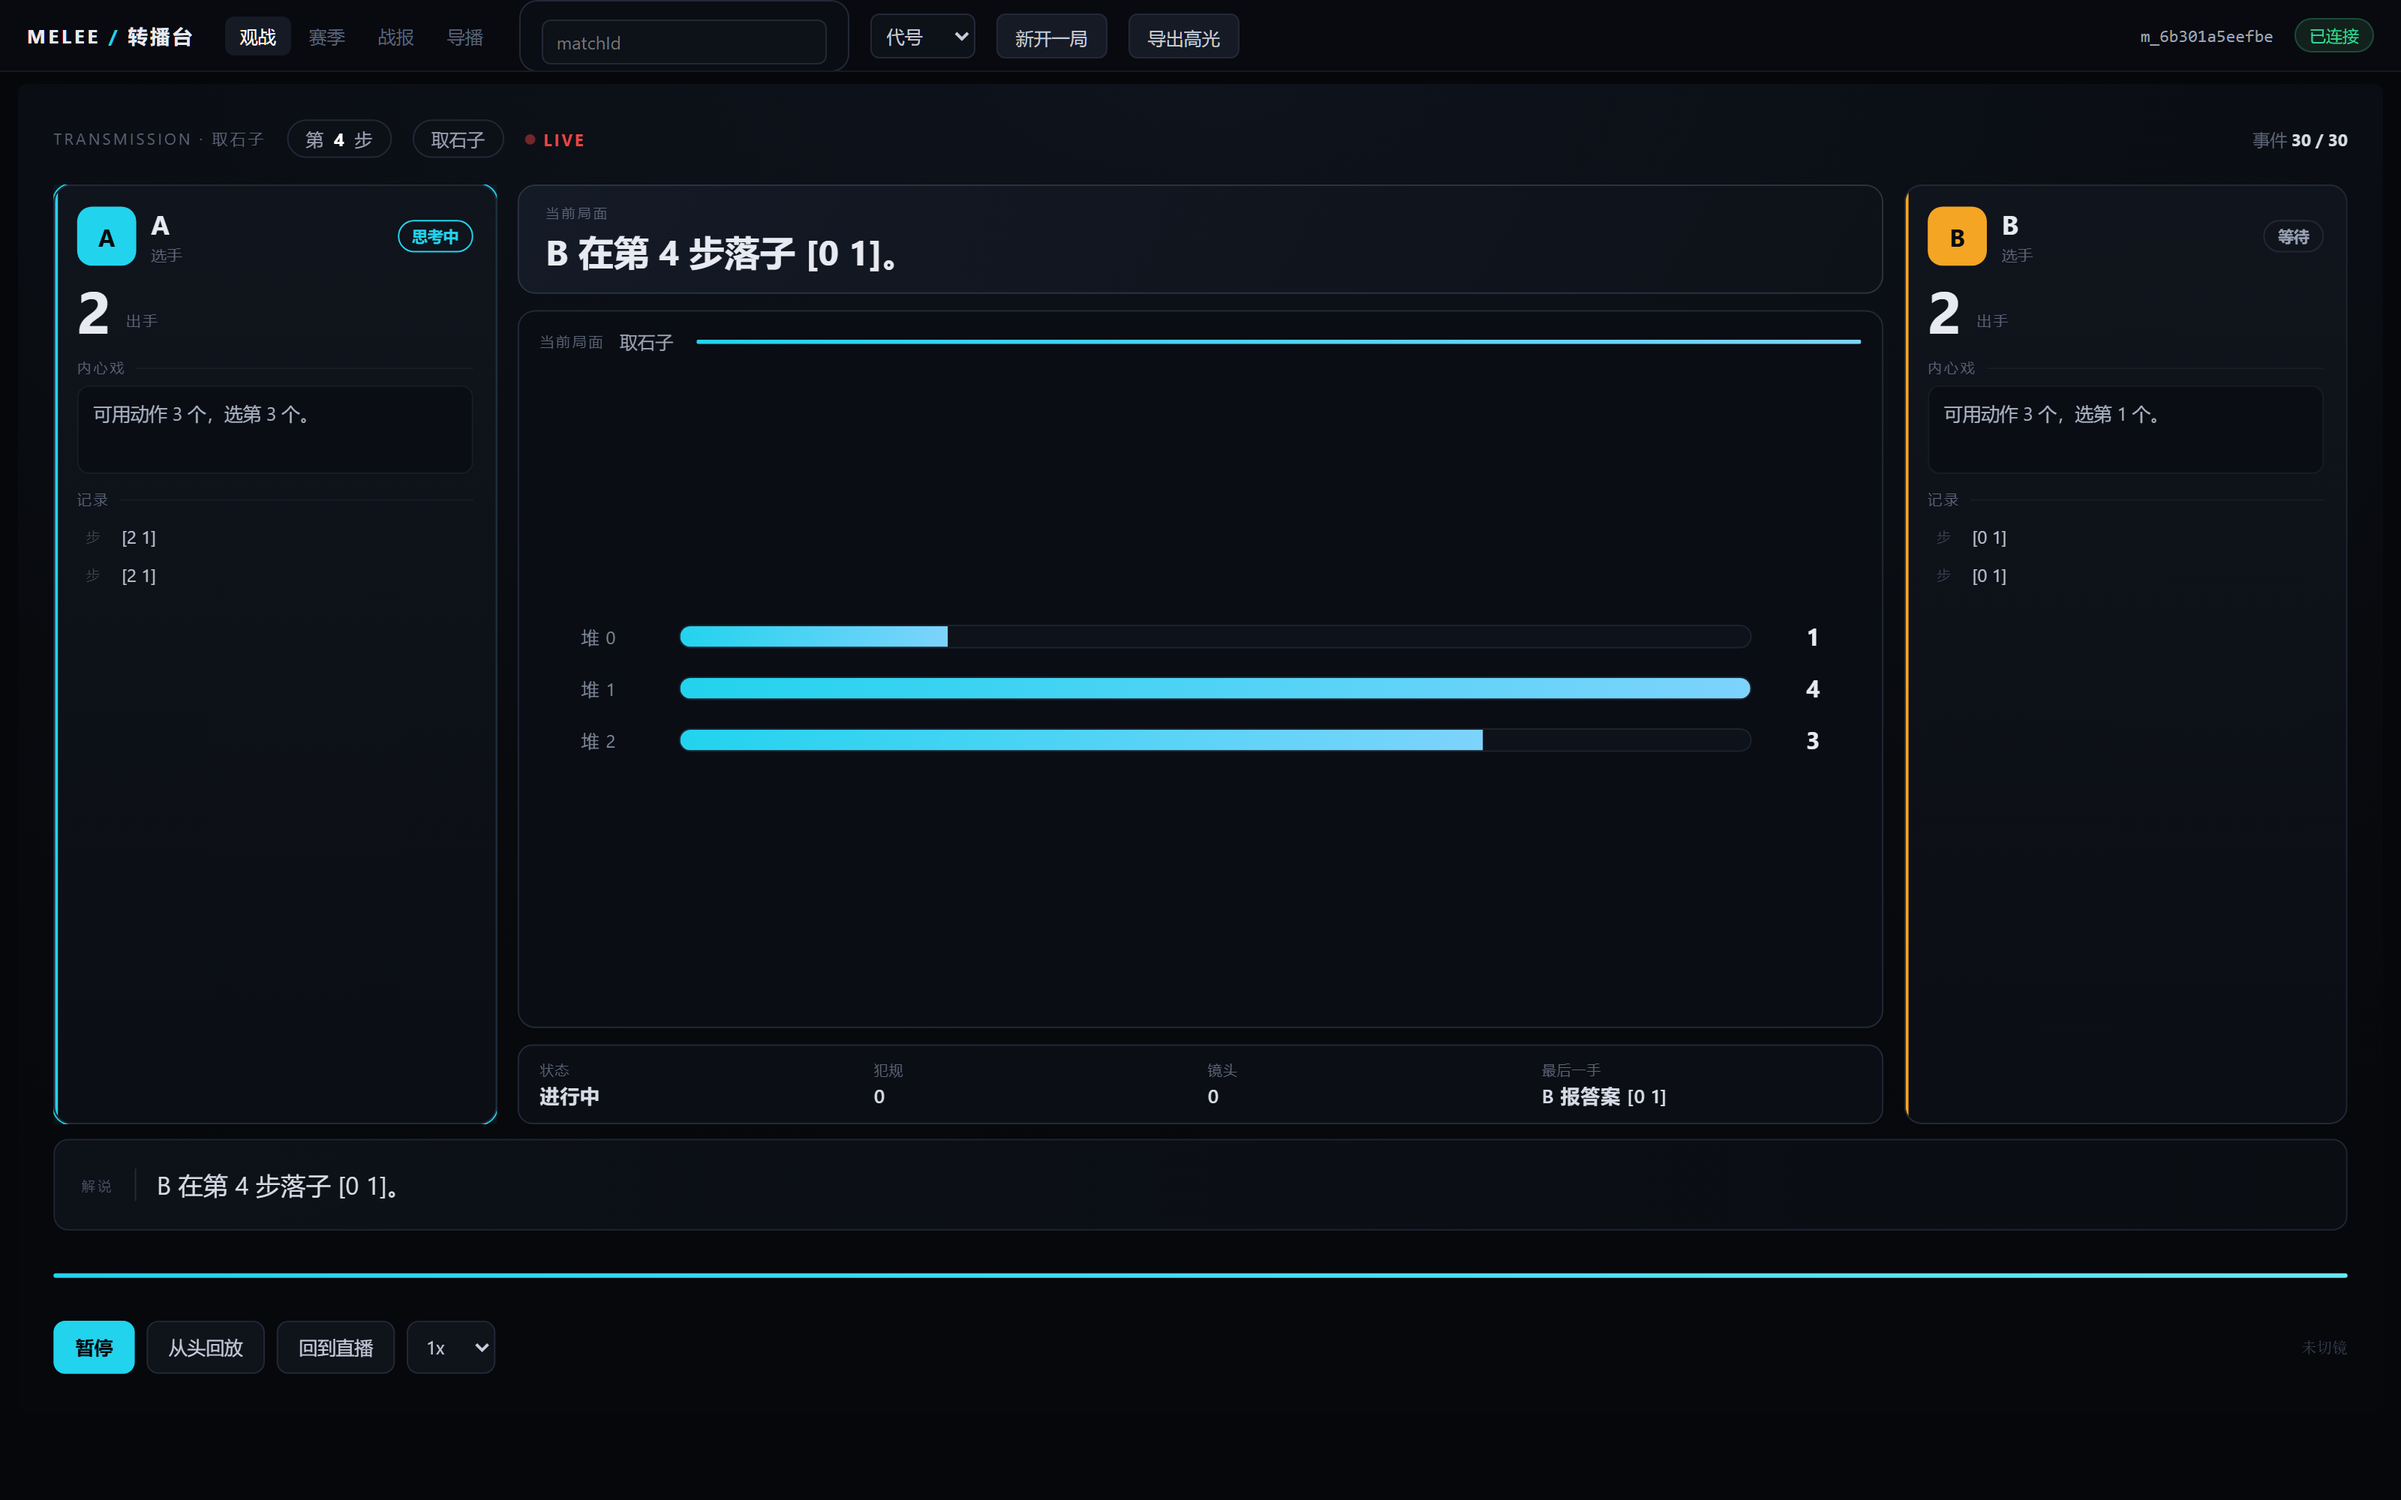
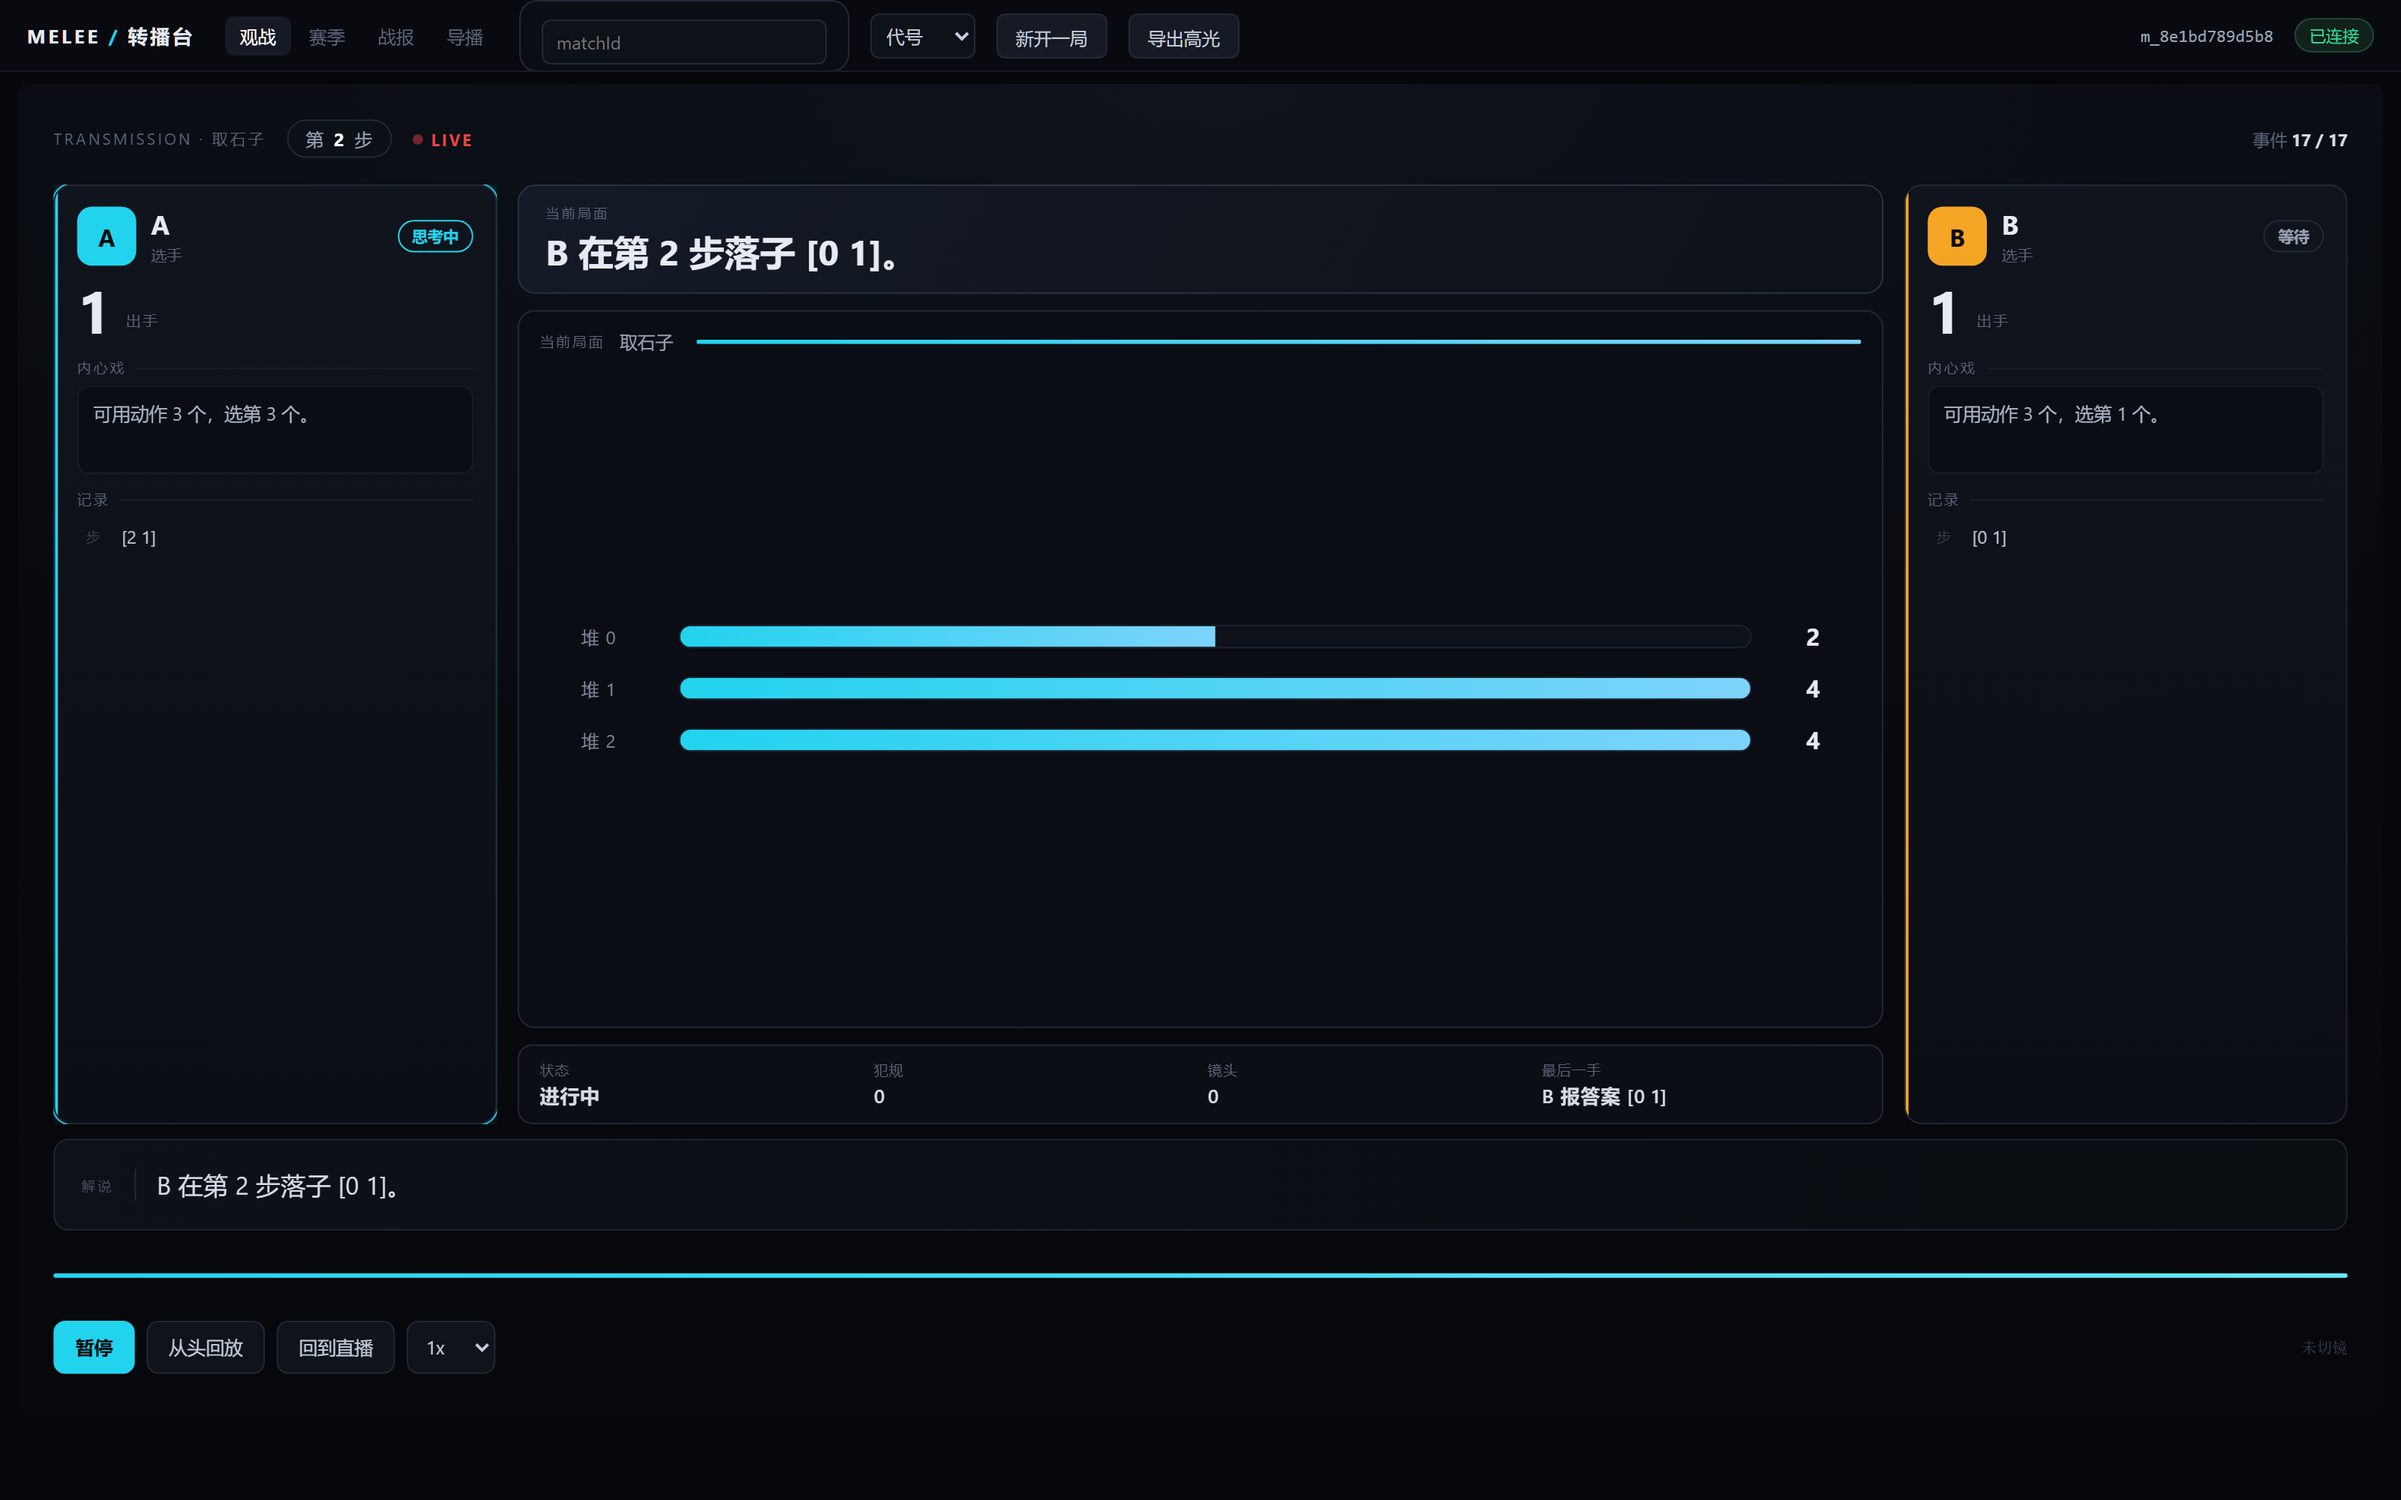
fix(ui): 棋类不再显示空的候选 pill（与左侧赛制名重复）

diff --git a/apps/web/src/main.js b/apps/web/src/main.js
@@ -160,12 +160,12 @@ function renderArena(shown) {
       : html`第 <b id="qnum">${shown.turnIndex ?? 0}</b> 步`,
     el('turnPill'),
   )
+  // 只有二十问有"候选数"这个指标；棋类/代号不显示，避免和左侧赛制名重复。
   litRender(
-    isQuiz
-      ? html`候选 <b id="remain">${shown.remaining ?? '—'}</b>`
-      : html`<span class="muted">${GAME_LABELS[shown.gameKind] || ''}</span>`,
+    isQuiz ? html`候选 <b id="remain">${shown.remaining ?? '—'}</b>` : html``,
     el('remainPill'),
   )
+  el('remainPill').style.display = isQuiz ? '' : 'none'
   const title = el('panelTitle')
   const meta = el('panelMeta')
 
